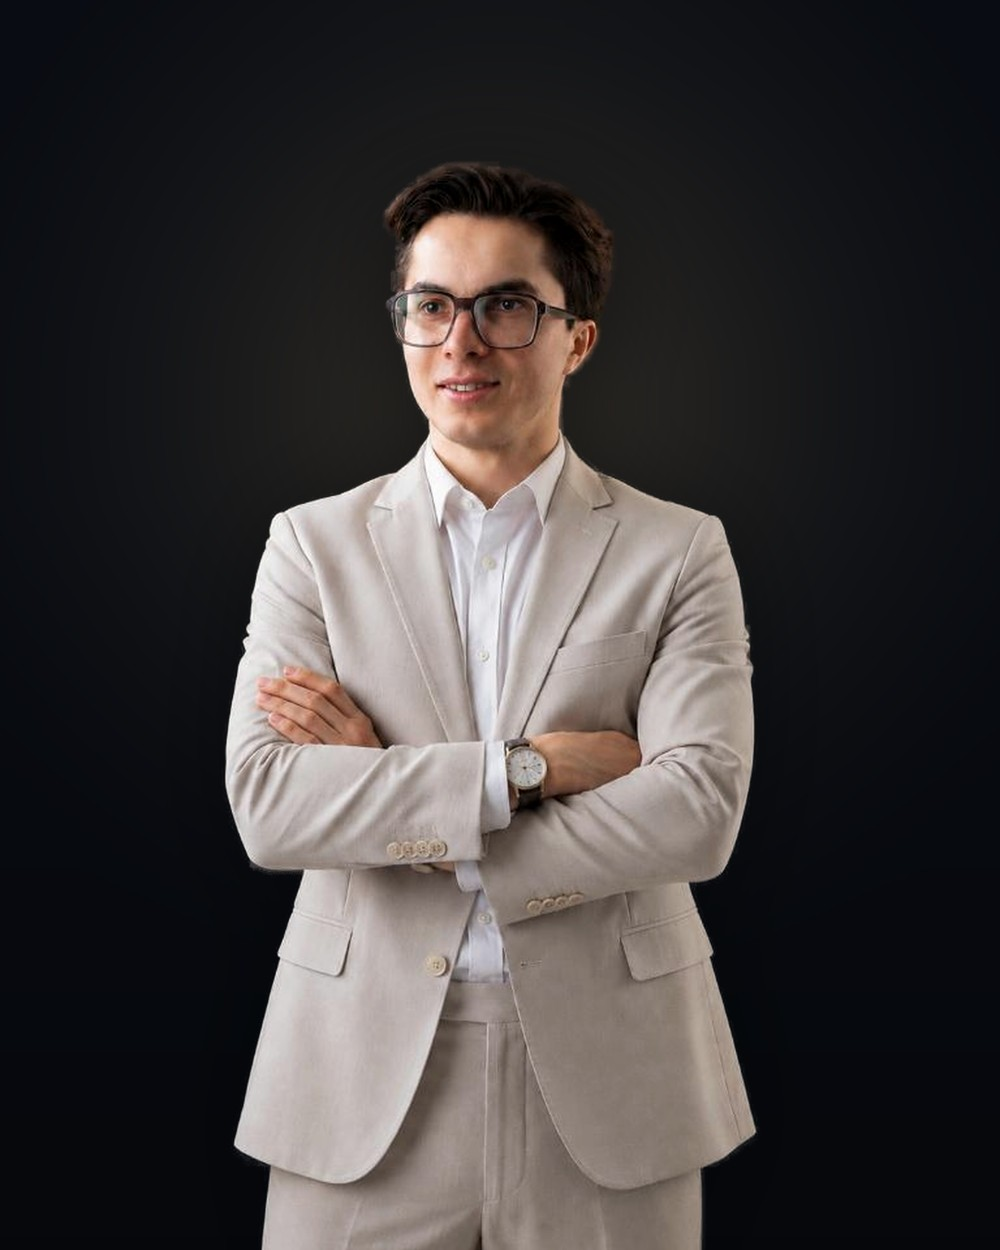
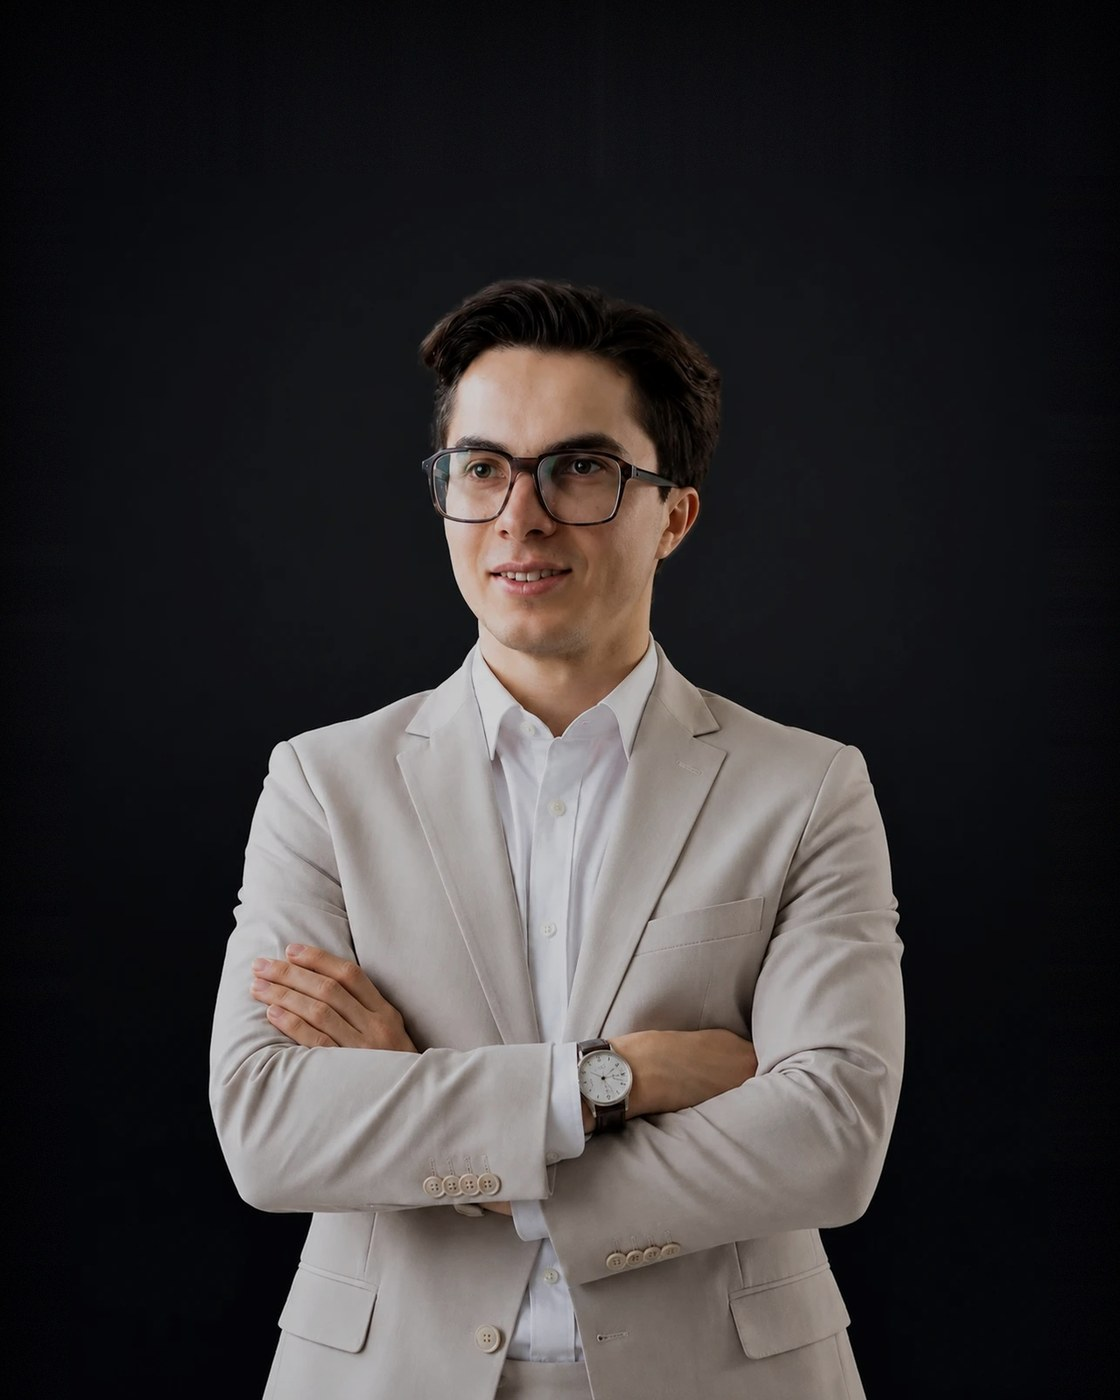
Put the sharper portrait in the hero and the expert card
The new shot measures 3.4x sharper than the hero image it replaces and
2.5x sharper than the expert one, so both now come from it at 1120x1400
— matched to a phone at 3x rather than the old 1000x1250.

Its framing already matches the hero almost exactly (the subject spans
0.708 of the width against 0.707), so that one is a straight swap.

The expert card was a wider shot — subject at 0.527 — which this frame
simply does not contain, and dropped in as-is his arms ran into the arch.
So the expert copy sits on an extended canvas: the photo scaled to 0.876
and anchored to the bottom, with the studio backdrop carried outward from
the edge columns and dimmed along a vignette curve, plus grain matched to
the source so the fill does not band. Subject lands at 0.620 — between the
old airiness and the new frame — and the seam is invisible at RGB 6-24.

Brightness keeps the relationship the design already had between the two
copies: the expert one is 0.815 of the hero, as before.

Claude-Session: https://claude.ai/code/session_014GCfyNYJ9VvnzS7ziTi9ox

Changed region(s): [[0.186, 0.1248, 0.806, 1.0]]

diff --git a/public/masterclass/index.html b/public/masterclass/index.html
@@ -1244,7 +1244,7 @@ body.lb-open .rev-track{animation-play-state:paused}
         <div class="hero-card rv">
           <picture>
             <source srcset="/masterclass/img/speaker-hero.webp" type="image/webp">
-            <img decoding="async" class="hero-cut" src="/masterclass/img/speaker-hero.jpg" alt="Yusufbay Kadirov — AI strateg" width="1000" height="1250" fetchpriority="high">
+            <img decoding="async" class="hero-cut" src="/masterclass/img/speaker-hero.jpg" alt="Yusufbay Kadirov — AI strateg" width="1120" height="1400" fetchpriority="high">
           </picture>
           <span class="scan" aria-hidden="true"></span>
           <span class="corners" aria-hidden="true"></span>
@@ -1436,7 +1436,7 @@ body.lb-open .rev-track{animation-play-state:paused}
     <div class="spk-photo rv-clip">
       <span class="arc" aria-hidden="true"></span>
       <div class="frame">
-        <img decoding="async" class="clip-img" src="/masterclass/img/speaker-dark.jpg" alt="Yusufbay Kadirov" width="1000" height="1250" loading="lazy">
+        <img decoding="async" class="clip-img" src="/masterclass/img/speaker-dark.jpg" alt="Yusufbay Kadirov" width="1120" height="1400" loading="lazy">
         <span class="spk-plate">
           <b>Yusufbay Kadirov</b>
           <i><span data-uz>MASTER KLASS SPIKERI</span><span data-ru>СПИКЕР МАСТЕР-КЛАССА</span></i>
